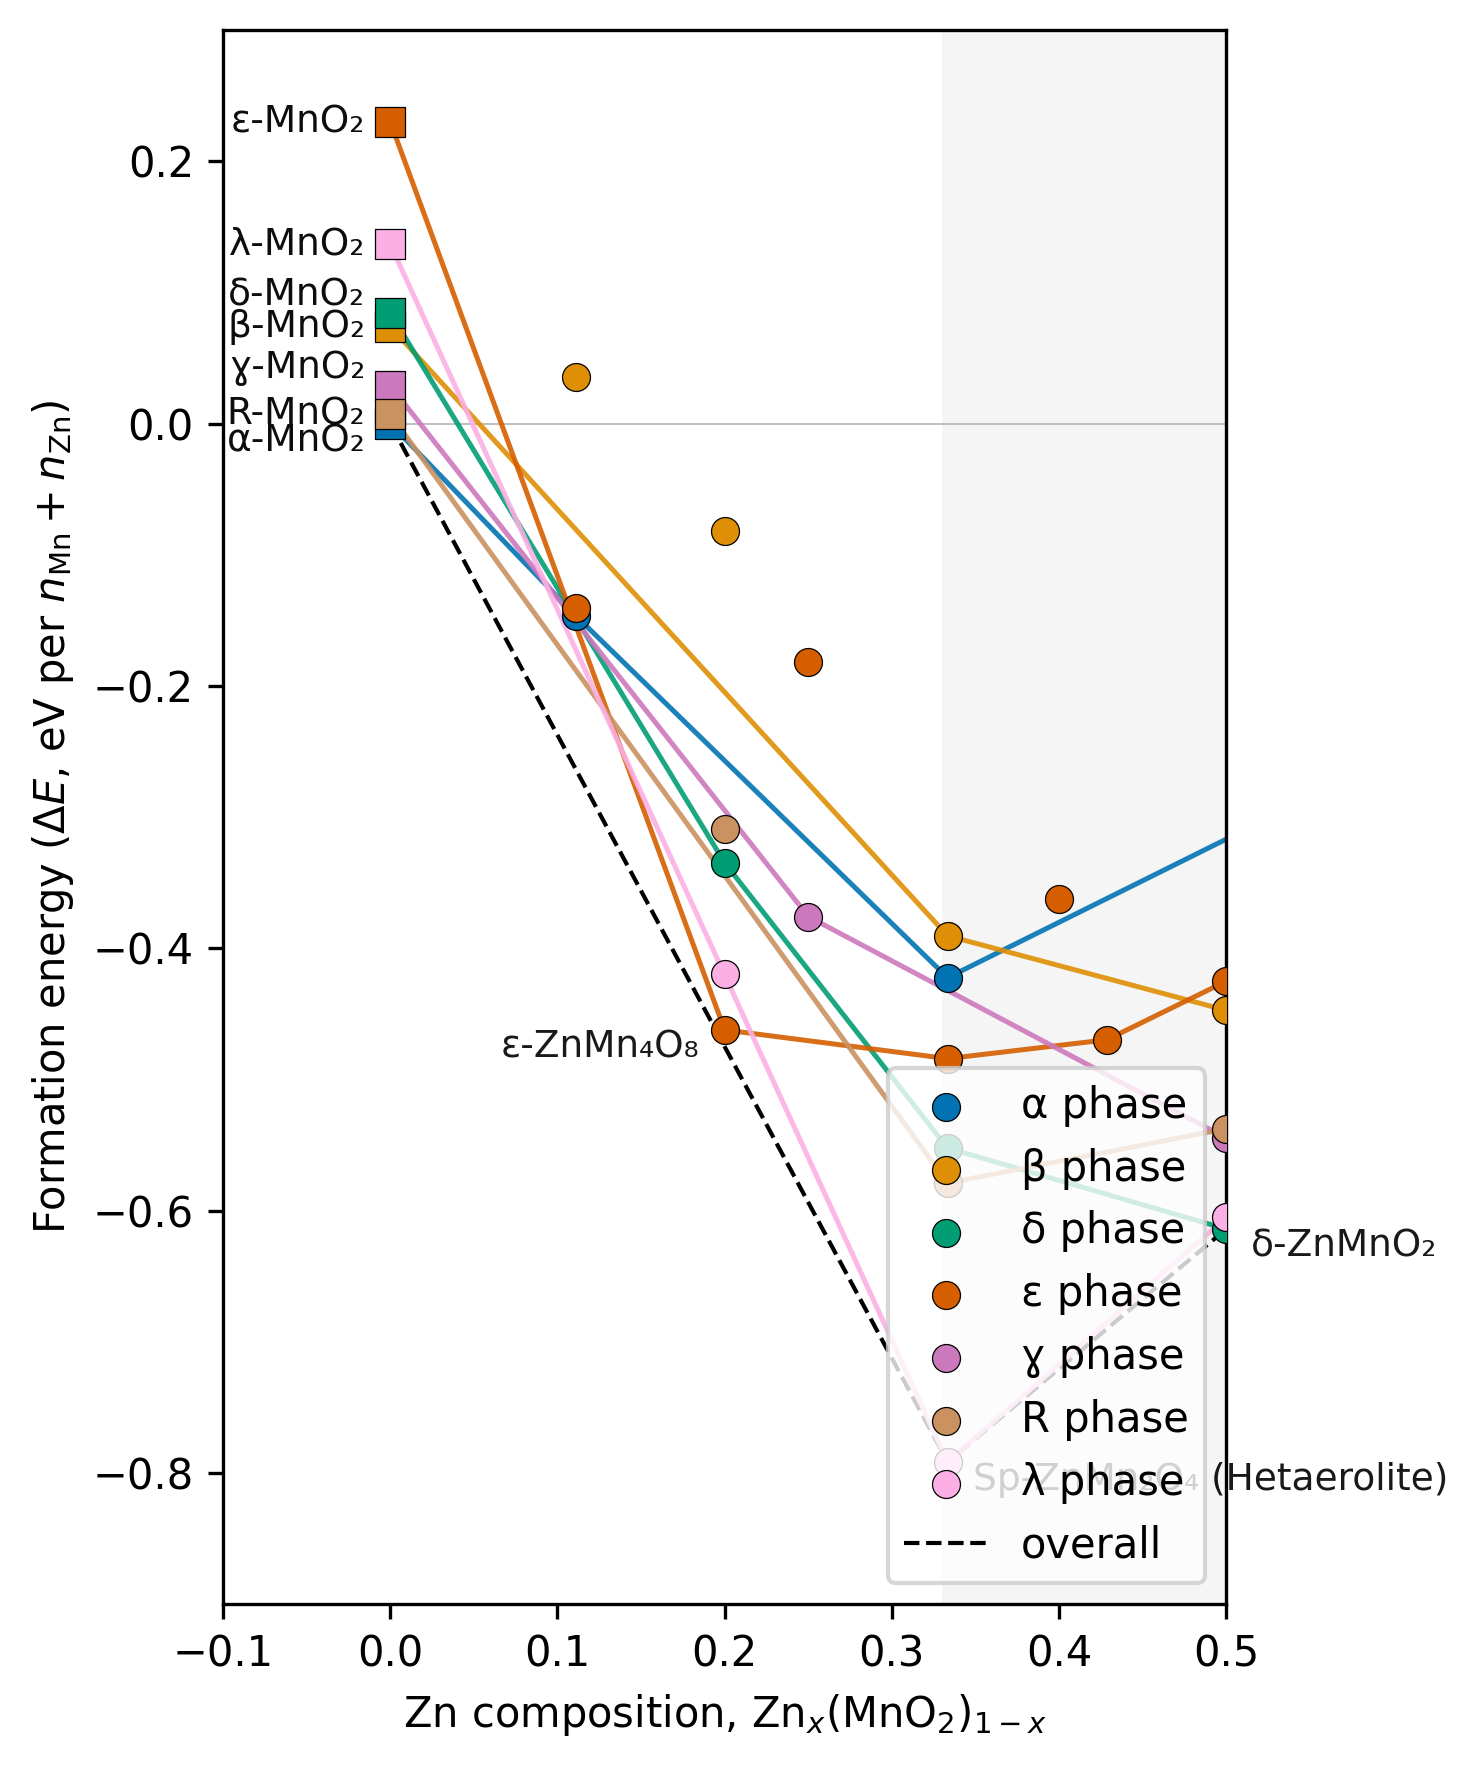
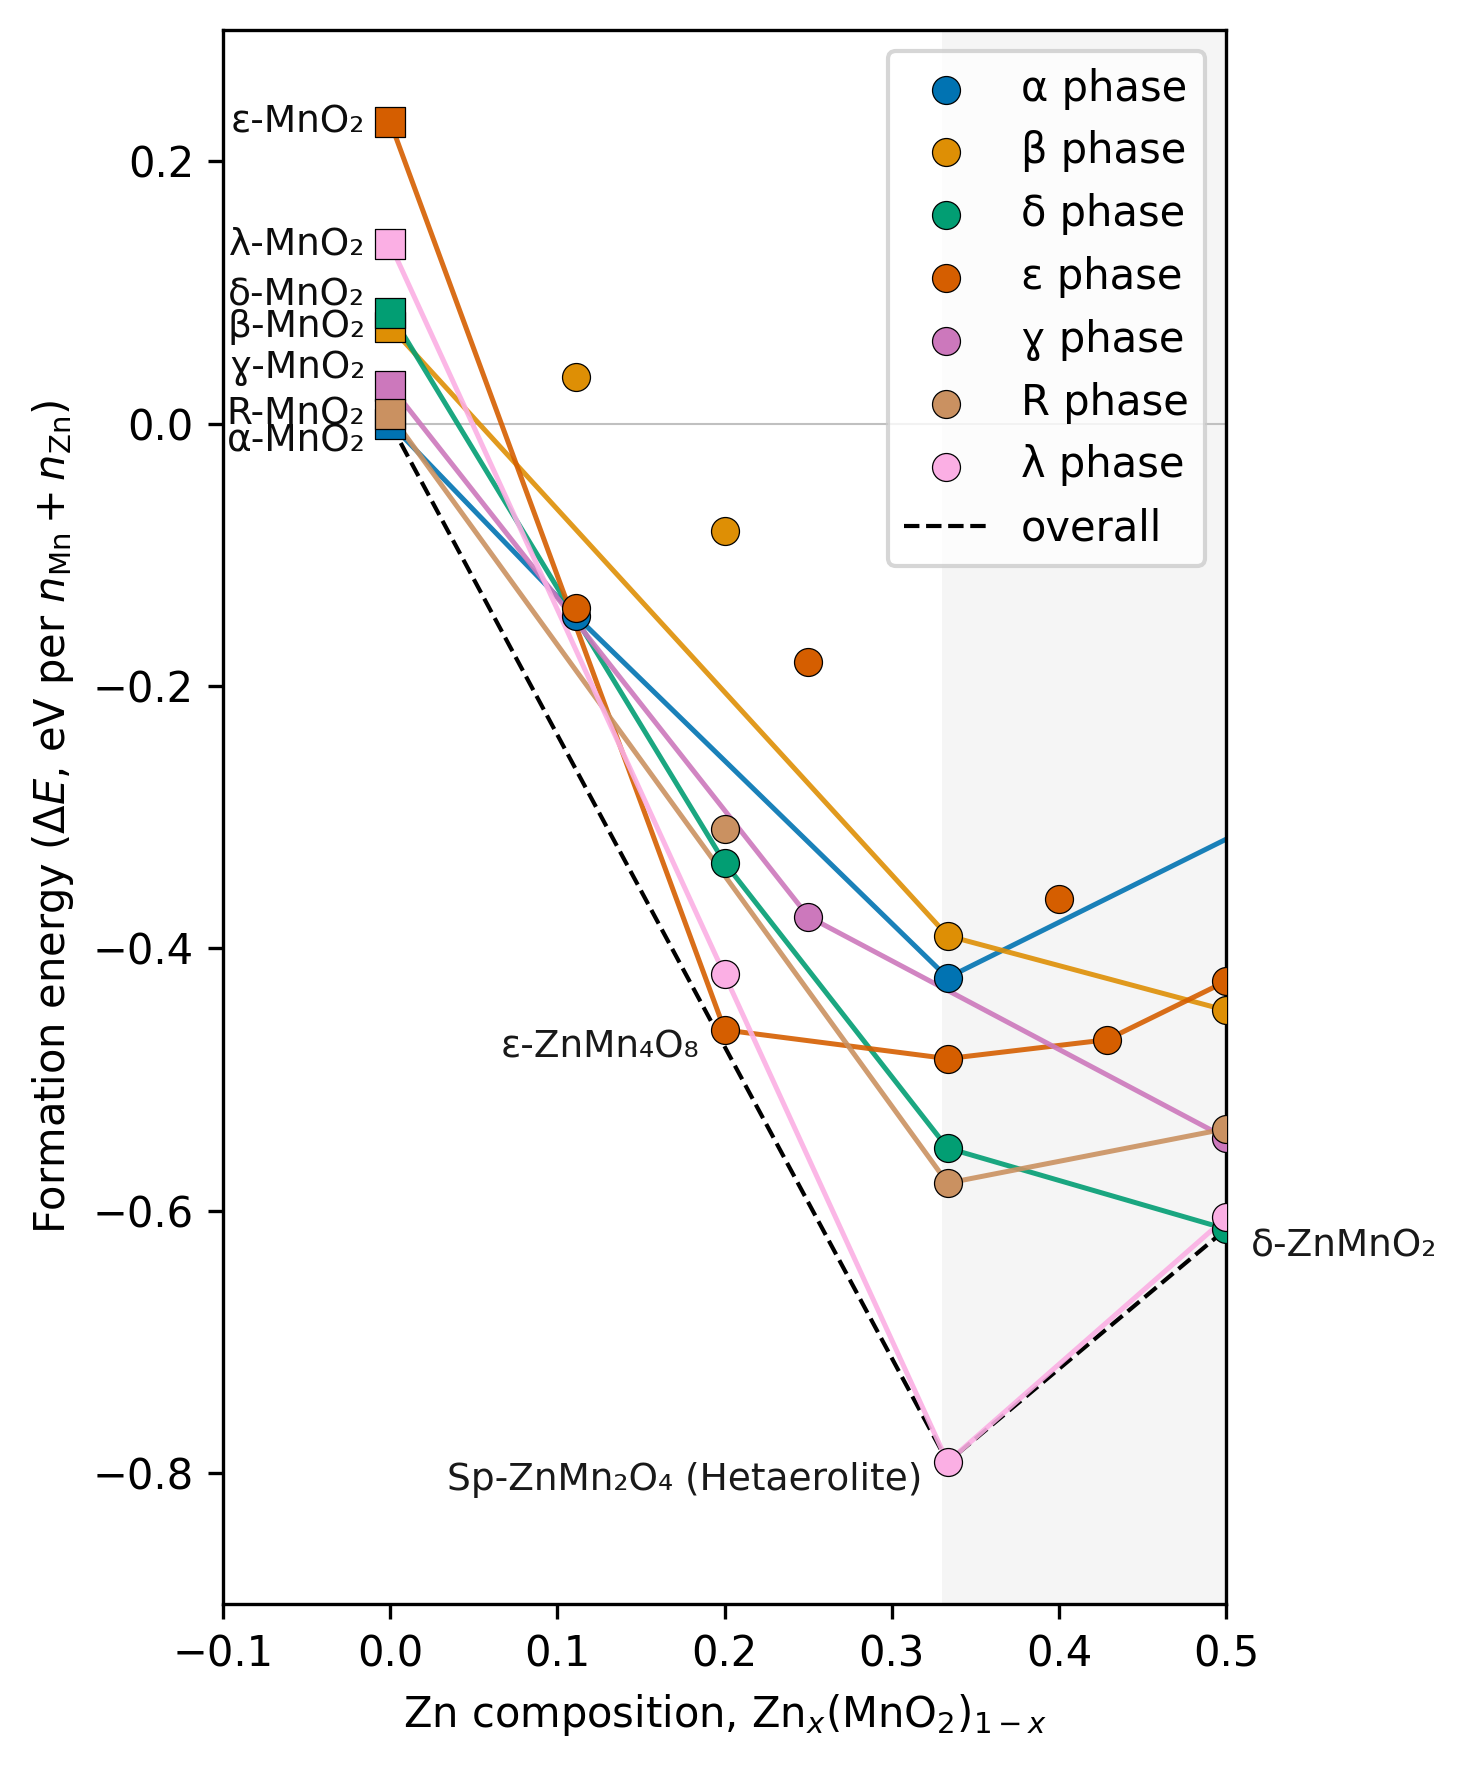
.

diff --git a/mno2/convex-hull-mno2-h.py b/mno2/convex-hull-mno2-h.py
@@ -219,6 +219,11 @@ def main():
         default="colorblind",
         help="Color palette name (seaborn or matplotlib, default: colorblind)",
     )
+    parser.add_argument(
+        "--half",
+        action="store_true",
+        help="Narrow figure width (half) and show x-axis only up to 0.5.",
+    )
     args = parser.parse_args()
 
     sherry_dir = Path(args.sherry_dir).expanduser().resolve()
@@ -242,10 +247,12 @@ def main():
     for energy, name in mn02_candidates:
         print(f"  {name:30s} {energy: .8f}")
 
-    plt.figure(figsize=(10, 6))
+    fig_w = 5 if args.half else 10
+    x_max = 0.5 if args.half else 1.1
+    plt.figure(figsize=(fig_w, 6))
     plt.axvspan(
         0.33,
-        1.1,
+        x_max,
         facecolor="whitesmoke",
         zorder=-2,
         linewidth=0,
@@ -360,13 +367,13 @@ def main():
     )
 
     plt.plot([0.0, 1.0], [0.0, 0.0], color="silver", lw=0.5, linestyle="-", zorder=-1)
-    plt.xlim(-0.1, 1.1)
+    plt.xlim(-0.1, x_max)
     plt.ylim(-0.5, 0.3)
     plt.xlabel(r"Coleman defect composition, H$_x$(MnO$_2$)$_{1-x}$")
     plt.ylabel(r"Formation energy ($\Delta E$, eV per $n_\mathrm{Mn}+n_{\mathrm{H}}$)")
-    plt.legend(loc="lower right")
+    plt.legend(loc="upper right" if args.half else "lower right")
     plt.tight_layout()
-    output_path = sherry_dir / f"convex-hull-mno2-h-{args.palette}.png"
+    output_path = sherry_dir / f"convex-hull-mno2-h-{args.palette}{'-half' if args.half else ''}.png"
     plt.savefig(output_path, dpi=300, bbox_inches="tight")
     print(f"Figure saved to: {output_path}")
     plt.show()

diff --git a/mno2/convex-hull-mno2-h2o.py b/mno2/convex-hull-mno2-h2o.py
@@ -247,6 +247,11 @@ def main():
         default=H2O_REFERENCE_ENERGY,
         help="H2O reference energy in eV per H2O (default: %(default).8f)",
     )
+    parser.add_argument(
+        "--half",
+        action="store_true",
+        help="Narrow figure width (half) and show x-axis only up to 0.5.",
+    )
     args = parser.parse_args()
 
     sherry_dir = Path(args.sherry_dir).expanduser().resolve()
@@ -279,10 +284,12 @@ def main():
     for energy, name in mn02_candidates:
         print(f"  {name:30s} {energy: .8f}")
 
-    plt.figure(figsize=(10, 6))
+    fig_w = 5 if args.half else 10
+    x_max = 0.5 if args.half else 1.1
+    plt.figure(figsize=(fig_w, 6))
     plt.axvspan(
         0.25,
-        1.1,
+        x_max,
         facecolor="whitesmoke",
         zorder=-2,
         linewidth=0,
@@ -394,13 +401,13 @@ def main():
     )
 
     plt.plot([0.0, 1.0], [0.0, 0.0], color="silver", lw=0.5, linestyle="-", zorder=-1)
-    plt.xlim(-0.1, 1.1)
+    plt.xlim(-0.1, x_max)
     plt.ylim(-0.2, 0.3)
     plt.xlabel(r"Ruetchi defect composition, (H$_2$O)$_{2x}$(MnO$_2$)$_{1-x}$")
     plt.ylabel(r"Formation energy ($\Delta E$, eV per $n_\mathrm{Mn}+n_{\mathrm{H}_4}$)")
     plt.legend(loc="upper right")
     plt.tight_layout()
-    output_path = sherry_dir / f"convex-hull-mno2-h2o-{args.palette}.png"
+    output_path = sherry_dir / f"convex-hull-mno2-h2o-{args.palette}{'-half' if args.half else ''}.png"
     plt.savefig(output_path, dpi=300, bbox_inches="tight")
     print(f"Figure saved to: {output_path}")
     plt.show()

diff --git a/mno2/convex-hull-mno2-zn.py b/mno2/convex-hull-mno2-zn.py
@@ -29,8 +29,8 @@ MNO2_ANNOTATION_BY_PHASE = {row["phase"]: row for row in MNO2_ANNOTATIONS}
 # Selected hull scatter points: JSON stem (lowercase) + text offset / alignment
 ZN_STRUCTURE_ANNOTATIONS = [
     {"stem": "e-znmn4o8", "xytext": (-6, 0), "va": "top", "ha": "right"},
-    {"stem": "h-znmn2o4", "xytext": (6, 0), "va": "top", "ha": "left"},
-    {"stem": "sp-znmn2o4", "xytext": (6, 0), "va": "top", "ha": "left"},
+    {"stem": "h-znmn2o4", "xytext": (-6, 0), "va": "top", "ha": "right"},
+    {"stem": "sp-znmn2o4", "xytext": (-6, 0), "va": "top", "ha": "right"},
     {"stem": "d-znmno2", "xytext": (6, 0), "va": "top", "ha": "left"},
 ]
 
@@ -241,6 +241,13 @@ def main():
     for energy, name in mn02_candidates:
         print(f"  {name:30s} {energy: .8f}")
 
+    if args.half:
+        ZN_STRUCTURE_ANNOTATIONS = [
+            {"stem": "e-znmn4o8", "xytext": (-6, 0), "va": "top", "ha": "right"},
+            {"stem": "h-znmn2o4", "xytext": (-6, 0), "va": "top", "ha": "right"},
+            {"stem": "sp-znmn2o4", "xytext": (-6, 0), "va": "top", "ha": "right"},
+        ]
+
     fig_w = 5 if args.half else 10
     x_max = 0.5 if args.half else 1.1
     plt.figure(figsize=(fig_w, 6))
@@ -365,7 +372,7 @@ def main():
     plt.ylabel(r"Formation energy ($\Delta E$, eV per $n_\mathrm{Mn}+n_{\mathrm{Zn}}$)")
     plt.legend(loc="upper right" if args.half else "lower right")
     plt.tight_layout()
-    output_path = sherry_dir / f"convex-hull-mno2-zn-{args.palette}.png"
+    output_path = sherry_dir / f"convex-hull-mno2-zn-{args.palette}{'-half' if args.half else ''}.png"
     plt.savefig(output_path, dpi=300, bbox_inches="tight")
     print(f"Figure saved to: {output_path}")
     plt.show()